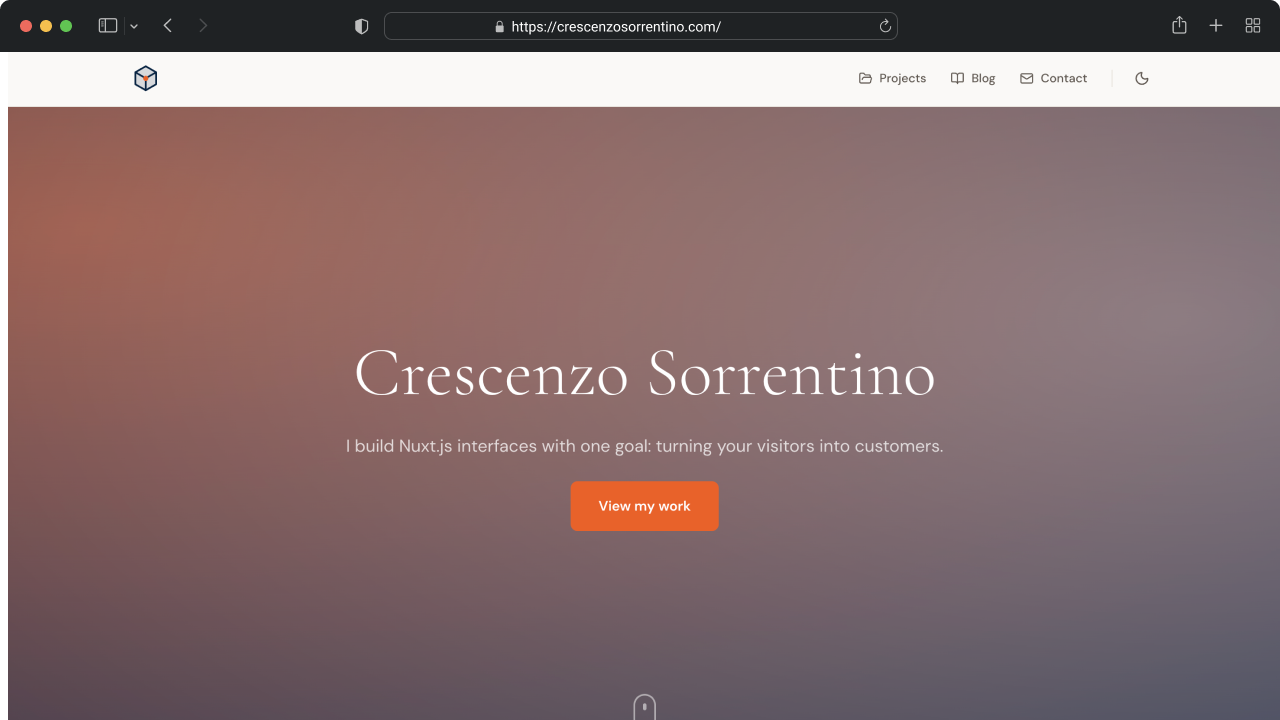
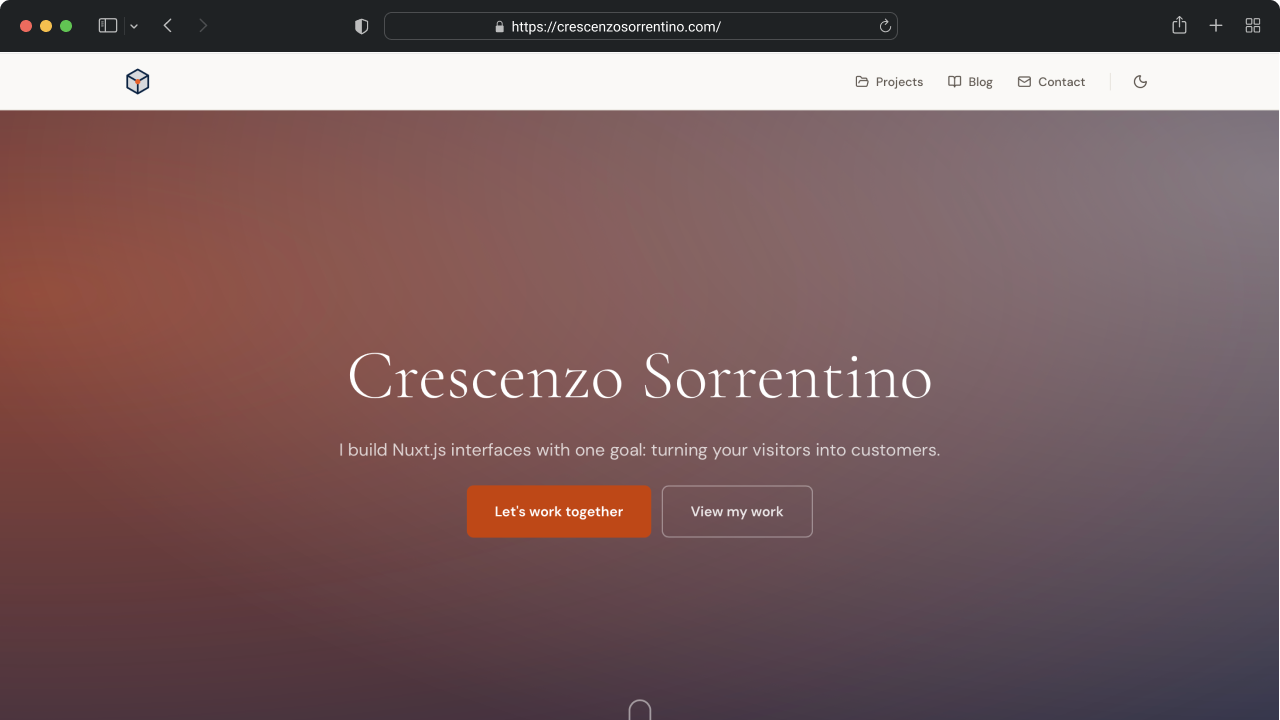
feat: improve hero CTA and add OG image
- Replace single hero button with primary/secondary pair (contact + projects)
- Stack hero buttons full-width on mobile, row on ≥480px
- Add og:image and twitter:image globally in nuxt.config.ts
- Switch twitter:card to summary_large_image on homepage

Changed region(s): [[0.0, 0.0917, 1.0, 1.0], [0.25, 0.4889, 0.75, 0.55], [0.625, 0.7333, 0.6562, 0.7639]]

diff --git a/app/pages/index.vue b/app/pages/index.vue
@@ -18,9 +18,11 @@ useSeoMeta({
   ogTitle: "Crescenzo Sorrentino — Nuxt.js Freelance Developer",
   ogDescription: description,
   ogUrl: "https://crescenzosorrentino.com",
-  twitterCard: "summary",
+  ogImage: "https://crescenzosorrentino.com/og-image.png",
+  twitterCard: "summary_large_image",
   twitterTitle: "Crescenzo Sorrentino — Nuxt.js Freelance Developer",
   twitterDescription: description,
+  twitterImage: "https://crescenzosorrentino.com/og-image.png",
 })
 </script>
 
@@ -45,11 +47,13 @@ useSeoMeta({
           customers.
         </p>
         <div
+          class="hero__actions"
           v-motion
           :initial="{ opacity: 0, y: 24 }"
           :enter="{ opacity: 1, y: 0, transition: { duration: 600, delay: 240 } }"
         >
-          <BaseButton to="/projects" variant="primary" size="lg">View my work</BaseButton>
+          <BaseButton to="/contact" variant="primary" size="lg">Let's work together</BaseButton>
+          <BaseButton to="/projects" variant="secondary" size="lg">View my work</BaseButton>
         </div>
       </div>
       <a href="#about" class="hero__scroll" aria-label="Scroll to next section">
@@ -466,6 +470,43 @@ useSeoMeta({
 @media (min-width: 768px) {
   .hero__subtitle {
     font-size: var(--text-lg);
+  }
+}
+
+.hero__actions {
+  display: flex;
+  flex-direction: column;
+  gap: var(--space-3);
+  width: 100%;
+  max-width: 320px;
+}
+
+.hero__actions .btn {
+  width: 100%;
+  justify-content: center;
+}
+
+@media (min-width: 480px) {
+  .hero__actions {
+    flex-direction: row;
+    flex-wrap: wrap;
+    width: auto;
+    max-width: none;
+    justify-content: center;
+  }
+
+  .hero__actions .btn {
+    width: auto;
+  }
+}
+
+.hero__actions .btn--secondary {
+  color: rgba(255, 255, 255, 0.85);
+  border-color: rgba(255, 255, 255, 0.35);
+
+  &:hover {
+    color: #fff;
+    border-color: rgba(255, 255, 255, 0.75);
   }
 }
 

diff --git a/nuxt.config.ts b/nuxt.config.ts
@@ -74,6 +74,11 @@ export default defineNuxtConfig({
           name: "google-site-verification",
           content: "FAyWQtqOkK8VUoEwBgtneptZkQwnYYZ7StbM05mB7rg",
         },
+        { property: "og:image", content: "https://crescenzosorrentino.com/og-image.png" },
+        { property: "og:image:width", content: "1424" },
+        { property: "og:image:height", content: "752" },
+        { name: "twitter:image", content: "https://crescenzosorrentino.com/og-image.png" },
+        { name: "twitter:card", content: "summary_large_image" },
       ],
       script: [
         // Anti-flash tema: gira prima di tutto il resto per evitare il lampeggio bianco
